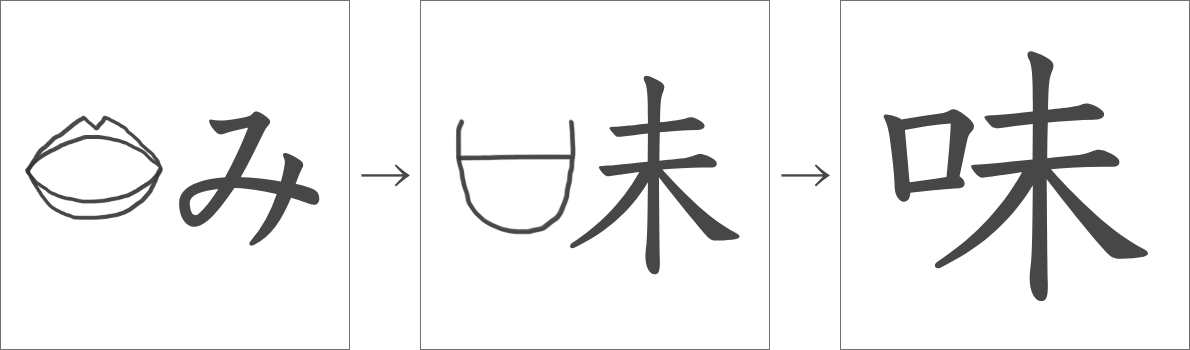
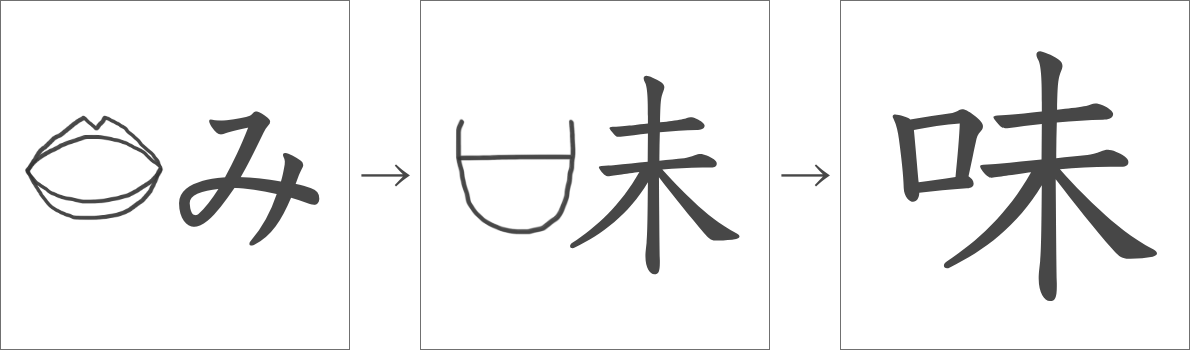
成り立ちの画像追加

Changed region(s): [[0.7462, 0.1429, 0.995, 0.8571]]

diff --git a/origin/index.html b/origin/index.html
@@ -87,6 +87,27 @@
 								<span lang="en-us" hidden></span>
 							</figcaption>
 						</figure>
+						<figure>
+							<img src="img/mizu.png" alt="「水」の成り立ち">
+							<figcaption>
+								<span lang="ja">「水」の成り立ち</span>
+								<span lang="en-us" hidden></span>
+							</figcaption>
+						</figure>
+						<figure>
+							<img src="img/hito.png" alt="「人」の成り立ち">
+							<figcaption>
+								<span lang="ja">「人」の成り立ち</span>
+								<span lang="en-us" hidden></span>
+							</figcaption>
+						</figure>
+						<figure>
+							<img src="img/sun.png" alt="「日」の成り立ち">
+							<figcaption>
+								<span lang="ja">「日」の成り立ち</span>
+								<span lang="en-us" hidden></span>
+							</figcaption>
+						</figure>
 					</div>
 					<div class="column">
 						<h2>
@@ -130,6 +151,10 @@
 							</figcaption>
 						</figure>
 					</div>
+					<p>
+						<span lang="ja">「上」と「下」は「二」と紛らわしかったため、後から縦棒が付け足されました。</span>
+						<span lang="en-us" hidden></span>
+					</p>
 				</section>
 				<section>
 					<h2>
@@ -163,6 +188,27 @@
 								<span lang="en-us" hidden></span>
 							</figcaption>
 						</figure>
+						<figure>
+							<img src="img/au.png" alt="「合」の成り立ち">
+							<figcaption>
+								<span lang="ja">「合」の成り立ち</span>
+								<span lang="en-us" hidden></span>
+							</figcaption>
+						</figure>
+						<figure>
+							<img src="img/honoo.png" alt="「炎」の成り立ち">
+							<figcaption>
+								<span lang="ja">「炎」の成り立ち</span>
+								<span lang="en-us" hidden></span>
+							</figcaption>
+						</figure>
+						<figure>
+							<img src="img/miru.png" alt="「見」の成り立ち">
+							<figcaption>
+								<span lang="ja">「見」の成り立ち</span>
+								<span lang="en-us" hidden></span>
+							</figcaption>
+						</figure>
 					</div>
 				</section>
 				<section>
@@ -180,21 +226,32 @@
 					</p>
 					<div class="imgDiv" style="--column: 2">
 						<figure>
-							<img src="img/kusa.png" alt="「草」の成り立ち">
+							<img lang="ja" src="img/dou.png" alt="「銅」の成り立ち">
+							<img lang="en-us" hidden src="img/dou-en.png" alt="「銅」の成り立ち">
 							<figcaption>
-								<span lang="ja">「草」の成り立ち</span>
+								<span lang="ja">「銅」の成り立ち</span>
 								<span lang="en-us" hidden></span>
 							</figcaption>
 						</figure>
 						<figure>
-							<img src="img/hare.png" alt="「晴」の成り立ち">
+							<img lang="ja" src="img/hare.png" alt="「晴」の成り立ち">
+							<img lang="en-us" hidden src="img/hare-en.png" alt="「晴」の成り立ち">
 							<figcaption>
 								<span lang="ja">「晴」の成り立ち</span>
 								<span lang="en-us" hidden></span>
 							</figcaption>
 						</figure>
 						<figure>
-							<img src="img/aji.png" alt="「味」の成り立ち">
+							<img lang="ja" src="img/kusa.png" alt="「草」の成り立ち">
+							<img lang="en-us" hidden src="img/kusa-en.png" alt="「草」の成り立ち">
+							<figcaption>
+								<span lang="ja">「草」の成り立ち</span>
+								<span lang="en-us" hidden></span>
+							</figcaption>
+						</figure>
+						<figure>
+							<img lang="ja" src="img/aji.png" alt="「味」の成り立ち">
+							<img lang="en-us" hidden src="img/aji-en.png" alt="「味」の成り立ち">
 							<figcaption>
 								<span lang="ja">「味」の成り立ち</span>
 								<span lang="en-us" hidden></span>
